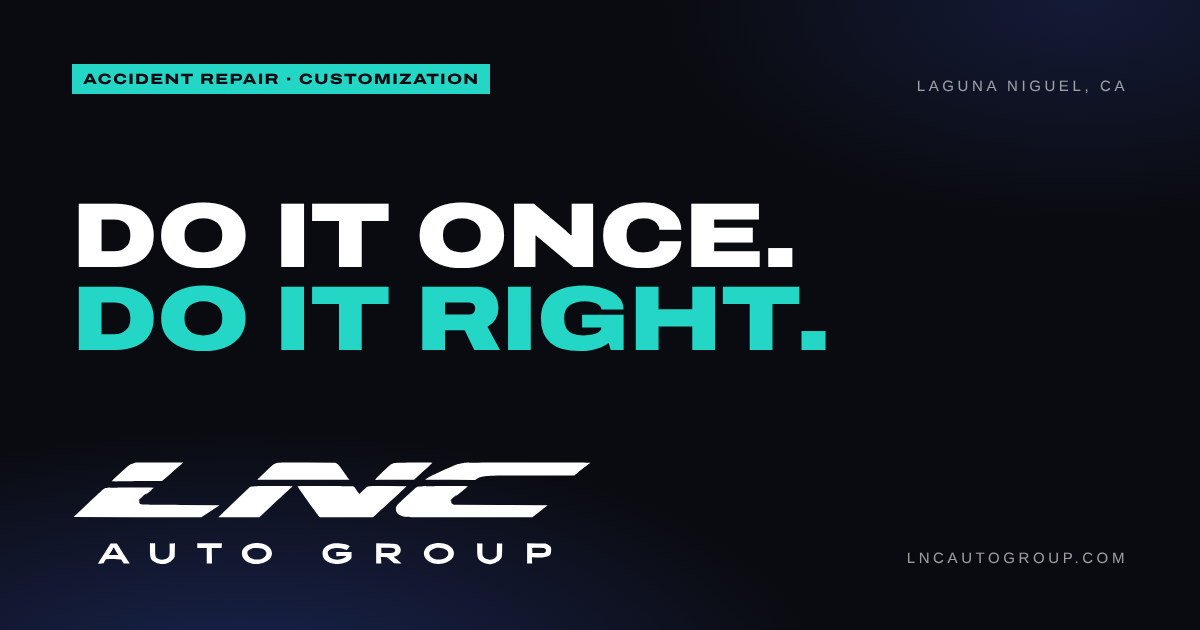
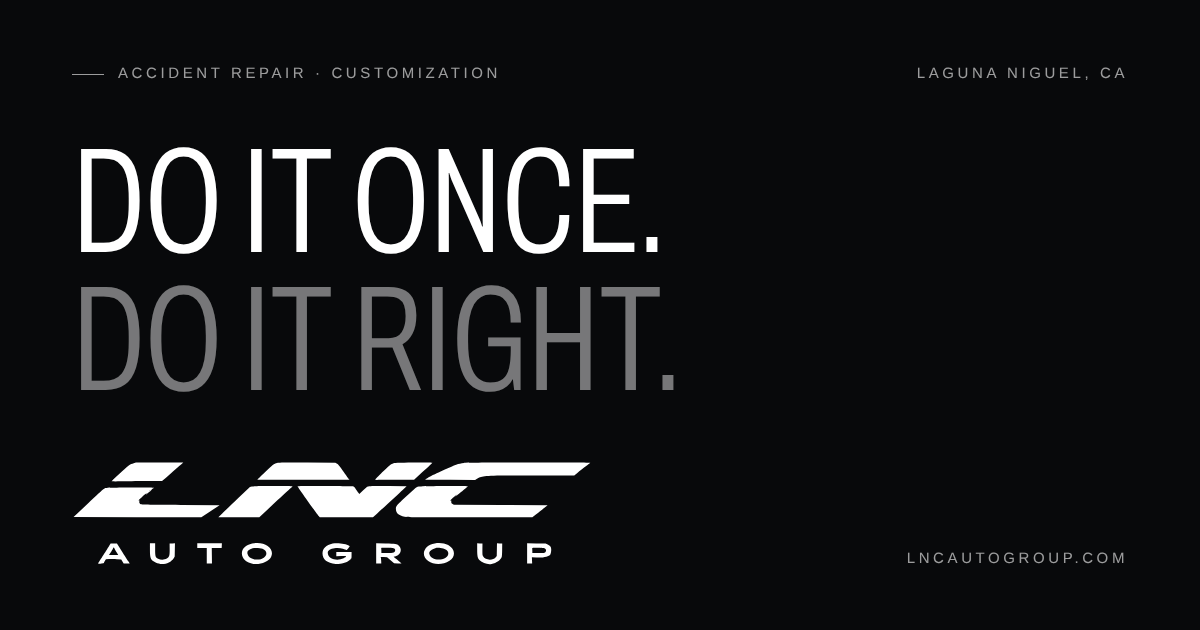
v3: return to Forge look, keep the v2 motion
- Condensed light uppercase display type, thin condensed numerals
- Monochrome palette: no navy glow, teal tags, chamfers or volt buttons;
  hairline micro-cap labels, square buttons, plain header links
- Kept rolling labels, odometer stats, results table + hover preview,
  shop countdown and week rows, bleed titles, marquee, cursor, magnetic
  buttons, counter preloader and footer glow (now neutral)
- Letters-only logo top and bottom; OG image restyled

Claude-Session: https://claude.ai/code/session_01NwikqQ1dvCxiA5zU3cEXki

diff --git a/src/styles/global.css b/src/styles/global.css
@@ -9,25 +9,22 @@
   --font-mono: 'Geist Mono Variable', 'Geist Mono', ui-monospace, monospace;
 
   /* Neutral base */
-  --color-paper: #f2f2ef;
+  --color-paper: #f5f4f0;
   --color-surface: #ffffff;
   --color-ink: #0b0c0e;
   --color-ink-2: #3d4046;
   --color-mute: #7a7d83;
   --color-line: #dfdfda;
-  --color-night: #0a0b10;
-  --color-night-2: #13151d;
-  --color-navy: #1b2756;
+  --color-night: #08090b;
+  --color-night-2: #121418;
   --color-chrome: #c7ccd2;
 
   /* LNC OG colour DNA — used sparingly */
   --color-teal: #11a39d;
   --color-blue: #1b3a8c;
   --color-red: #d4212d;
-  /* Signal accent on dark — LNC teal, pushed bright */
-  --color-volt: #23d6c6;
 
-  --radius-card: 6px;
+  --radius-card: 2px;
   --ease-out-expo: cubic-bezier(0.16, 1, 0.3, 1);
 }
 
@@ -67,55 +64,50 @@
 }
 
 @layer components {
-  /* Extra-wide, black-weight grotesk — racing-livery energy. */
+  /* Tall, condensed, light uppercase — Forge / Singer restraint. */
   .display {
     font-family: var(--font-display);
-    font-variation-settings: 'wdth' 125;
-    font-weight: 900;
+    font-variation-settings: 'wdth' 62;
+    font-weight: 300;
     text-transform: uppercase;
-    letter-spacing: -0.012em;
-    line-height: 0.88;
+    letter-spacing: 0.005em;
+    line-height: 0.94;
   }
-  /* Condensed heavy for giant numbers (timing-screen feel). */
+  .display-b {
+    font-weight: 500;
+  }
+  /* Thin condensed numerals for big figures and the clock. */
   .display-c {
     font-family: var(--font-display);
     font-variation-settings: 'wdth' 62;
-    font-weight: 800;
+    font-weight: 200;
     text-transform: uppercase;
-    line-height: 0.8;
-    letter-spacing: -0.02em;
+    line-height: 0.82;
+    letter-spacing: -0.01em;
     font-variant-numeric: tabular-nums;
   }
   .outline-text {
     color: transparent;
     -webkit-text-stroke: 1.5px currentColor;
   }
-  /* Black → navy glow, like a pit lane under lights. */
-  .glow-navy {
-    background:
-      radial-gradient(70% 60% at 20% 110%, color-mix(in srgb, var(--color-navy) 95%, transparent), transparent 70%),
-      radial-gradient(50% 50% at 90% 0%, color-mix(in srgb, var(--color-navy) 55%, transparent), transparent 70%),
-      var(--color-night);
-  }
-  /* Chamfered (cut-corner) frame. */
-  .chamfer {
-    --c: 18px;
-    clip-path: polygon(var(--c) 0, 100% 0, 100% calc(100% - var(--c)), calc(100% - var(--c)) 100%, 0 100%, 0 var(--c));
-  }
+  /* Section label: hairline + wide-tracked micro caps. */
   .tag {
     display: inline-flex;
     align-items: center;
-    gap: 0.4rem;
-    padding: 0.32rem 0.55rem;
-    background: var(--color-volt);
-    color: var(--color-night);
-    font-family: var(--font-display);
-    font-variation-settings: 'wdth' 125;
-    font-weight: 800;
-    font-size: 0.62rem;
-    letter-spacing: 0.08em;
+    gap: 0.75rem;
+    font-family: var(--font-sans);
+    font-size: 0.7rem;
+    font-weight: 500;
+    letter-spacing: 0.24em;
     text-transform: uppercase;
     line-height: 1;
+    opacity: 0.6;
+  }
+  .tag::before {
+    content: '';
+    width: 1.75rem;
+    height: 1px;
+    background: currentColor;
   }
   /* Wide-tracked micro caps — Forge-style labels. */
   .eyebrow {
@@ -142,13 +134,11 @@
     align-items: center;
     justify-content: center;
     gap: 0.75rem;
-    border-radius: 6px;
-    padding: 1.05rem 1.5rem;
-    font-family: var(--font-display);
-    font-variation-settings: 'wdth' 125;
-    font-weight: 800;
-    font-size: 0.72rem;
-    letter-spacing: 0.06em;
+    border-radius: 0;
+    padding: 1rem 1.5rem;
+    font-weight: 500;
+    font-size: 0.7rem;
+    letter-spacing: 0.22em;
     text-transform: uppercase;
     overflow: hidden;
     transition:
@@ -175,22 +165,13 @@
   .btn-light:hover {
     background: #e9e9e6;
   }
-  .btn-volt {
-    background: var(--color-volt);
-    color: var(--color-night);
-  }
-  .btn-volt:hover {
-    background: #4ff0e2;
-  }
   .link-arrow {
     display: inline-flex;
     align-items: center;
     gap: 0.6rem;
-    font-family: var(--font-display);
-    font-variation-settings: 'wdth' 125;
     font-size: 0.7rem;
-    font-weight: 800;
-    letter-spacing: 0.06em;
+    font-weight: 500;
+    letter-spacing: 0.22em;
     text-transform: uppercase;
     padding-bottom: 0.35rem;
     background: linear-gradient(currentColor, currentColor) 0 100% / 100% 1px no-repeat;
@@ -293,7 +274,7 @@ button:hover > .roll > span,
   height: 10px;
   margin: -5px 0 0 -5px;
   border-radius: 999px;
-  background: var(--color-volt);
+  background: #fff;
   mix-blend-mode: difference;
   transition:
     width 0.45s var(--ease-out-expo),
@@ -304,18 +285,19 @@ button:hover > .roll > span,
   place-items: center;
 }
 .cursor.is-big {
-  width: 92px;
-  height: 92px;
-  margin: -46px 0 0 -46px;
+  width: 88px;
+  height: 88px;
+  margin: -44px 0 0 -44px;
   mix-blend-mode: normal;
+  background: rgba(255, 255, 255, 0.92);
+  backdrop-filter: blur(4px);
 }
 .cursor .cursor-label {
-  font-family: var(--font-display);
-  font-variation-settings: 'wdth' 125;
-  font-weight: 800;
-  font-size: 0.62rem;
-  letter-spacing: 0.06em;
-  color: var(--color-night);
+  font-size: 0.6rem;
+  font-weight: 500;
+  letter-spacing: 0.22em;
+  text-transform: uppercase;
+  color: var(--color-ink);
   opacity: 0;
   transition: opacity 0.3s;
 }

diff --git a/PLAN.md b/PLAN.md
@@ -14,6 +14,7 @@ Status: **v1 built** (see README.md to run it). Decisions below supersede the pr
 | 7 | Domain | LNCAutoGroup.com — yes |
 | — | Look & motion refs | Layout: Boden Autohaus · Restraint/type: Singer · Motion: Forge Automotive (smooth scroll, preloader, line reveals, pinned 01/03 sequence, horizontal build rail, scroll-scrub-ready video) |
 | v2 | Type | Extra-wide black grotesk (Archivo wdth 125 / 900) for headlines; condensed Archivo for big numbers; Geist body. Black → navy glow sections |
+| v3 | Look | Owner preferred the v1 Forge look: **back to tall condensed light type, black/white, square buttons, hairline labels** — no wide-black type, navy glow, teal tags or cut corners. Lando/Nick Ho motion kept |
 | v2 | Logo | Speed lines removed — **LNC letters + AUTO GROUP only**. Small in the header, full-width in the footer (Gomez Sim Industries-style) |
 | v2 | Motion refs | Lando Norris "On Track" (rolling hover labels, odometer stats, results table with hover preview, countdown, custom cursor, magnetic buttons, loader counter, glowing footer slogan) + Nick Ho Motorsports (giant bleed titles, calendar rows, volt tags). LNC version: live open/closed countdown (Pacific) + week "calendar" with today highlighted |
 
